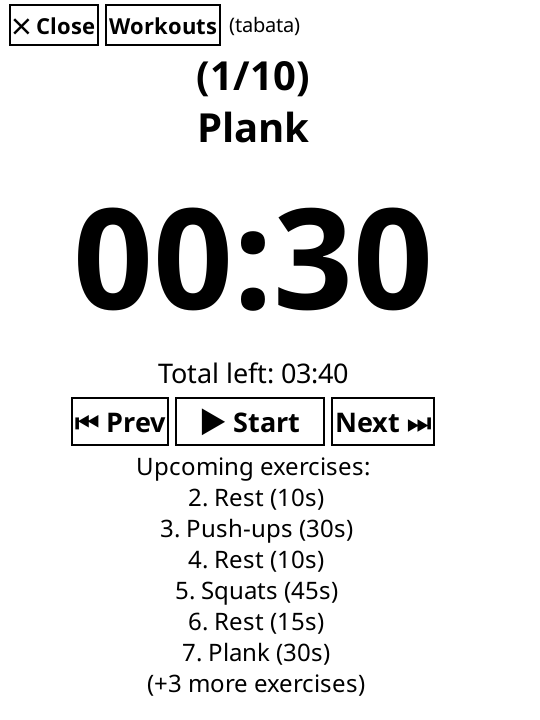
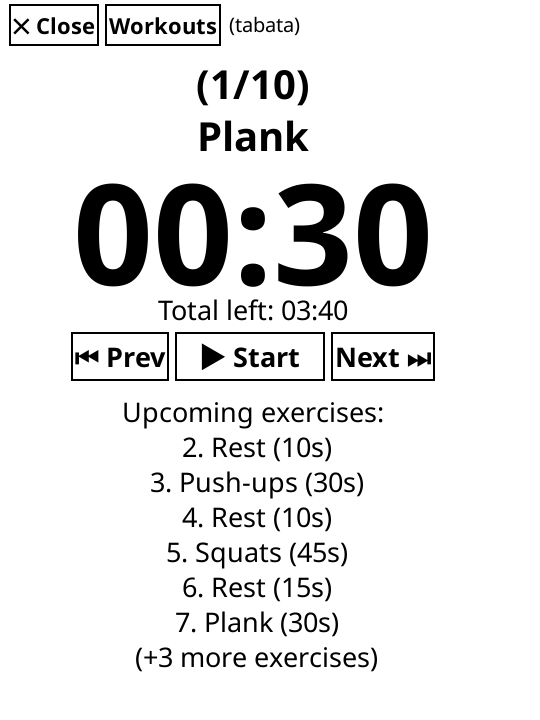
Added comments, added AGENT.md

Changed region(s): [[0.1185, 0.2444, 0.8296, 0.9778], [0.3556, 0.0611, 0.5926, 0.2139]]

diff --git a/AGENT.md b/AGENT.md
@@ -1,0 +1,139 @@
+# AGENT.md - Developer & AI Agent Guidelines
+
+This repository contains the **KOReader Tabata Timer Plugin**, a customizable interval timer plugin built for [KOReader](https://github.com/koreader/koreader) on e-ink devices (Kobo, Kindle, PocketBook, Android).
+
+---
+
+## 1. Codebase Architecture
+
+```text
+.
+├── _meta.lua               # Plugin metadata (name, description for KOReader menu)
+├── main.lua                # Plugin entry point; sets package.path to ./lua/
+├── Makefile                # Test and emulator symlink targets
+├── lua/
+│   ├── tabata_plugin.lua   # Main UI widget (TabataTimerWidget) & plugin lifecycle (TabataTimerPlugin)
+│   ├── parser.lua          # CSV parser for workout routine files
+│   └── updater.lua         # GitHub-based OTA updater for routines and plugin code
+├── workouts/               # Default workout CSV files (tabata.csv, McGill.csv, mobility.csv, etc.)
+├── tests/
+│   └── test_parser.lua     # Unit tests for parser.lua
+└── screenshots/            # UI screenshots displayed in README.md (timer.png, workouts.png)
+```
+
+### Key Modules
+
+- **[`main.lua`](main.lua)**: Injects the `./lua/` folder into `package.path` and returns `tabata_plugin`.
+- **[`lua/tabata_plugin.lua`](lua/tabata_plugin.lua)**:
+  - `TabataTimerWidget`: Full-screen modal widget extending `InputContainer`. Manages the timer countdown loop, start/pause/resume states, interval indexing, button handling, dialogs, and text editor invocations.
+  - `TabataTimerPlugin`: Implements KOReader's `Widget:extend` interface, registers menu entries under **Tools** $\rightarrow$ **Tabata Timer**.
+- **[`lua/parser.lua`](lua/parser.lua)**:
+  - `Parser.readCSV(filepath)`: Reads exercise lines formatted as `<Exercise Name>,<Duration Seconds>`. Ignores empty lines, `#` comment lines, and trailing `# inline comments`.
+- **[`lua/updater.lua`](lua/updater.lua)**:
+  - Fetches repository tree from GitHub API over HTTPS, checks for modified/new files, and handles workout conflict resolution.
+
+---
+
+## 2. Development & Testing Workflow
+
+### Running Unit Tests
+Always run unit tests after modifying parser logic or workout handling:
+```bash
+make test
+# or
+lua tests/test_parser.lua
+```
+
+### Running with the KOReader Emulator
+KOReader emulator can be run alongside this repo:
+1. Symlink this plugin into KOReader's plugin directory:
+   ```bash
+   make emulator
+   # Or manually:
+   ln -s "$(pwd)" ../koreader/plugins/tabatatimer.koplugin
+   ```
+2. Launch the emulator:
+   ```bash
+   cd ../koreader && ./kodev run
+   ```
+
+### Mandatory Screenshot Generation After Each Update
+> **IMPORTANT:** After each new update (UI layout changes, feature modifications, or workout routine updates), **new screenshots MUST be generated and updated** in `screenshots/` (`screenshots/timer.png` and `screenshots/workouts.png`).
+
+To generate both screenshots in a headless environment with KOReader's `luajit`:
+```bash
+cd ../koreader/koreader-emulator-x86_64-linux-gnu-debug/koreader
+./luajit -e '
+require("setupkoenv")
+G_defaults = require("luadefaults"):open()
+local DataStorage = require("datastorage")
+G_reader_settings = require("luasettings"):open(DataStorage:getDataDir().."/settings.reader.lua")
+local Device = require("device")
+local CanvasContext = require("document/canvascontext")
+CanvasContext:init(Device)
+local Screen = Device.screen
+local UIManager = require("ui/uimanager")
+
+package.path = "/path/to/koreader_tabata_timer/lua/?.lua;" .. package.path
+local TabataPlugin = require("tabata_plugin")
+
+local menu_items = {}
+local plugin = TabataPlugin:new{ ui = { menu = { registerToMainMenu = function() end } }, path = "/path/to/koreader_tabata_timer" }
+plugin:addToMainMenu(menu_items)
+
+local timerWidget
+local orig_show = UIManager.show
+UIManager.show = function(self, widget, ...)
+    orig_show(self, widget, ...)
+    if not timerWidget then timerWidget = widget end
+end
+
+-- 1. Generate timer.png
+menu_items.tabata_timer.sub_item_table[1].callback()
+UIManager:forceRePaint()
+Screen:shot("/path/to/koreader_tabata_timer/screenshots/timer.png")
+
+-- 2. Generate workouts.png
+timerWidget:showWorkoutsDialog()
+UIManager:forceRePaint()
+Screen:shot("/path/to/koreader_tabata_timer/screenshots/workouts.png")
+'
+```
+
+---
+
+## 3. UI Layout & Design Conventions
+
+1. **E-Ink Readability**:
+   - Use high-contrast fonts (`"cfont"`), bold styling on critical elements, and clean button borders.
+   - Minimize excessive whitespace so information is easily legible from several feet away during exercise.
+
+2. **Screen Scaling & Device Compatibility**:
+   - Target resolutions range from 540×720 (standard emulator/older devices) up to 1440×1920 (high-DPI 300 DPI e-readers).
+   - Use `Screen:scaleBySize(...)` for pixel-based spacing and borders.
+
+3. **Fixed Upcoming Container Height**:
+   - `upcomingContainer` height must be fixed to `sampleUpcoming:getSize().h` (calculated with 8 sample lines). This prevents vertical screen jumping when the remaining number of exercises decreases during a workout.
+
+4. **Digit Metrics on Countdown Timer**:
+   - The large timer countdown font (size 155) uses `forced_height` and `forced_baseline` metrics calculated from `clockFace.ftsize:getHeightAndAscender()`. This eliminates unused ascender/descender margins for pure digits.
+
+5. **Screenshot Updates Requirement**:
+   - **Always generate and commit updated screenshots (`screenshots/timer.png` and `screenshots/workouts.png`) after each new update or change.**
+
+---
+
+## 4. Workout File Format
+
+Workout files in `workouts/*.csv` follow this standard:
+```csv
+# Full-line comments are ignored
+Plank,30
+Rest,10
+Push-ups,30 # Inline comments are also ignored
+Rest,10
+Squats,45
+Rest,15
+```
+- Column 1: Exercise / interval name (trimmed).
+- Column 2: Integer duration in seconds.
